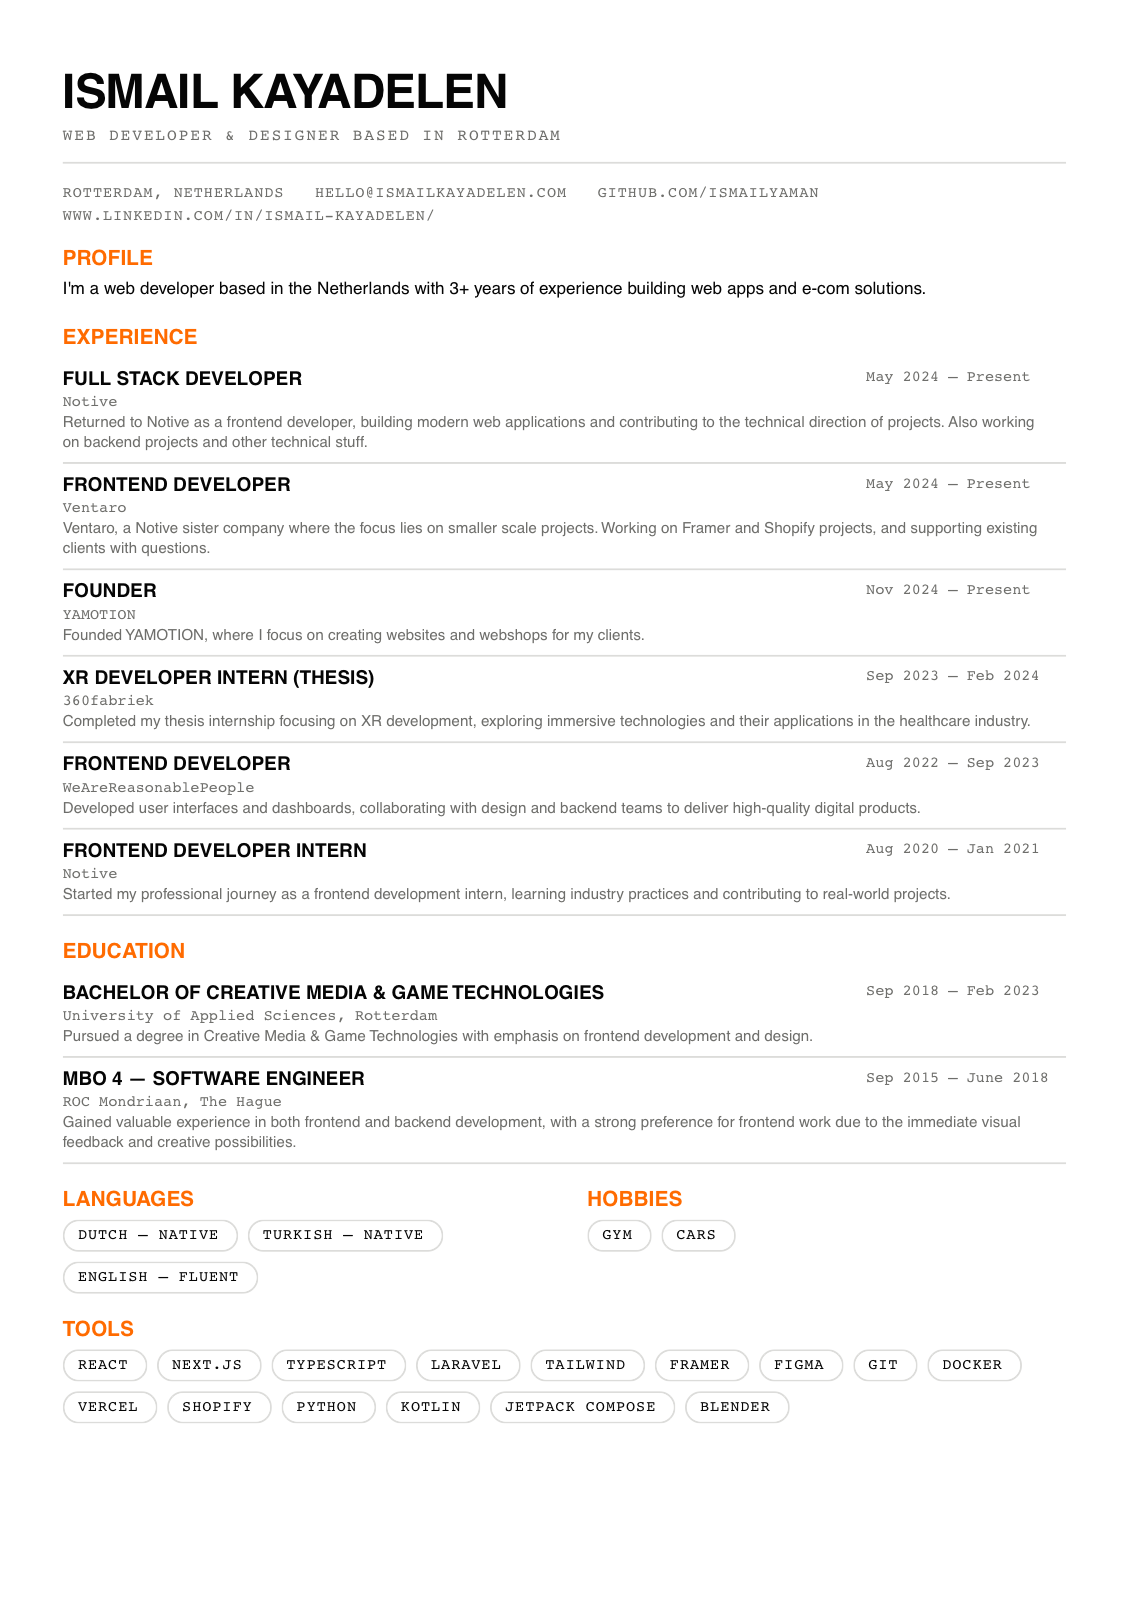
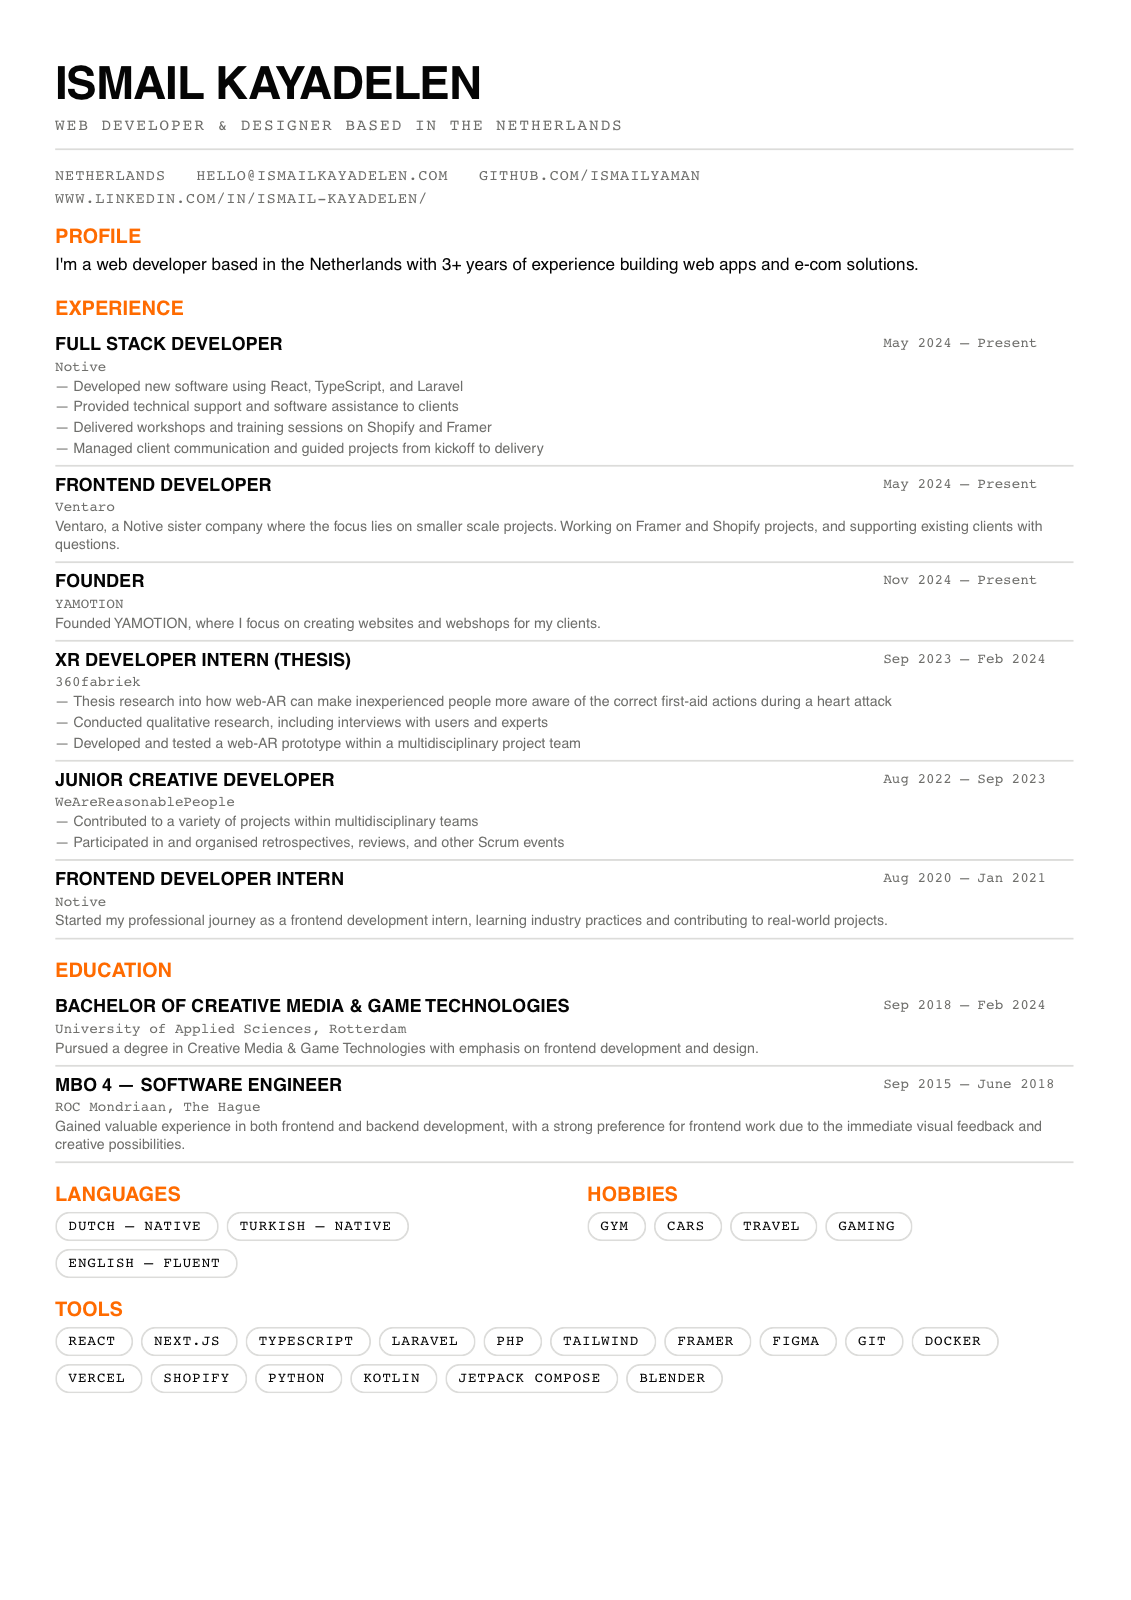
Expand CV with role bullet points and correct a few facts
Pulls detail from the old CV reference: per-role responsibility
bullets for Notive, 360fabriek, and WeAreReasonablePeople, PHP added
to tools, Travel/Gaming added to hobbies. Also corrects WAreReasonable
People's title to Junior Creative Developer and the Hogeschool
Rotterdam end date to Feb 2024, and generalizes SITE.location/tagline
to just "Netherlands" instead of a specific city.

diff --git a/lib/data.ts b/lib/data.ts
@@ -5,9 +5,9 @@ type LL = Record<Locale, string[]>;
 
 export const SITE = {
   name: "Ismail Kayadelen",
-  tagline: { en: "web developer & designer based in Rotterdam", nl: "webdeveloper & designer gevestigd in Rotterdam" } satisfies L,
+  tagline: { en: "web developer & designer based in the Netherlands", nl: "webdeveloper & designer gevestigd in Nederland" } satisfies L,
   email: "hello@ismailkayadelen.com",
-  location: { en: "Rotterdam, Netherlands", nl: "Rotterdam, Nederland" } satisfies L,
+  location: { en: "Netherlands", nl: "Nederland" } satisfies L,
   available: true,
   url: "https://ismailkayadelen.com",
 };
@@ -295,6 +295,7 @@ export type ExperienceEntry = {
   type: "Work" | "Education";
   year: L;
   description: L;
+  bullets?: LL;
 };
 
 export const experience: ExperienceEntry[] = [
@@ -306,6 +307,20 @@ export const experience: ExperienceEntry[] = [
     description: {
       en: "Returned to Notive as a frontend developer, building modern web applications and contributing to the technical direction of projects. Also working on backend projects and other technical stuff.",
       nl: "Teruggekeerd bij Notive als frontend developer, waar ik moderne webapplicaties bouw en meedenk over de technische richting van projecten. Daarnaast werk ik aan backend-projecten en andere technische zaken.",
+    },
+    bullets: {
+      en: [
+        "Developed new software using React, TypeScript, and Laravel",
+        "Provided technical support and software assistance to clients",
+        "Delivered workshops and training sessions on Shopify and Framer",
+        "Managed client communication and guided projects from kickoff to delivery",
+      ],
+      nl: [
+        "Nieuwe software ontwikkeld met React, TypeScript en Laravel",
+        "Technische ondersteuning en software support verleend aan klanten",
+        "Workshops en trainingen gegeven in Shopify en Framer",
+        "Klantcommunicatie onderhouden en projecten begeleid van start tot oplevering",
+      ],
     },
   },
   {
@@ -337,15 +352,31 @@ export const experience: ExperienceEntry[] = [
       en: "Completed my thesis internship focusing on XR development, exploring immersive technologies and their applications in the healthcare industry.",
       nl: "Afstudeerstage gericht op XR-development, waarbij ik immersieve technologieën en hun toepassingen binnen de zorgsector heb onderzocht.",
     },
+    bullets: {
+      en: [
+        "Thesis research into how web-AR can make inexperienced people more aware of the correct first-aid actions during a heart attack",
+        "Conducted qualitative research, including interviews with users and experts",
+        "Developed and tested a web-AR prototype within a multidisciplinary project team",
+      ],
+      nl: [
+        "Afstudeeronderzoek naar hoe web-AR onervaren mensen bewuster kan maken van de juiste handelingen bij eerste hulp aan een hartaanval",
+        "Kwalitatief onderzoek uitgevoerd, waaronder interviews met gebruikers en experts",
+        "Web-AR prototype ontwikkeld en getest binnen een multidisciplinair projectteam",
+      ],
+    },
   },
   {
-    title: { en: "Frontend Developer", nl: "Frontend Developer" },
+    title: { en: "Junior Creative Developer", nl: "Junior Creative Developer" },
     company: "WeAreReasonablePeople",
     type: "Work",
     year: { en: "Aug 2022 – Sep 2023", nl: "Aug 2022 – Sep 2023" },
     description: {
       en: "Developed user interfaces and dashboards, collaborating with design and backend teams to deliver high-quality digital products.",
       nl: "Interfaces en dashboards ontwikkeld, in samenwerking met design- en backendteams om hoogwaardige digitale producten op te leveren.",
+    },
+    bullets: {
+      en: ["Contributed to a variety of projects within multidisciplinary teams", "Participated in and organised retrospectives, reviews, and other Scrum events"],
+      nl: ["Meegewerkt aan diverse projecten binnen multidisciplinaire teams", "Retrospectives, reviews en andere Scrum events bijgewoond en (mede) georganiseerd"],
     },
   },
   {
@@ -362,7 +393,7 @@ export const experience: ExperienceEntry[] = [
     title: { en: "Bachelor of Creative Media & Game Technologies", nl: "Bachelor Creative Media & Game Technologies" },
     company: "University of Applied Sciences, Rotterdam",
     type: "Education",
-    year: { en: "Sep 2018 – Feb 2023", nl: "Sep 2018 – Feb 2023" },
+    year: { en: "Sep 2018 – Feb 2024", nl: "Sep 2018 – Feb 2024" },
     description: {
       en: "Pursued a degree in Creative Media & Game Technologies with emphasis on frontend development and design.",
       nl: "Een opleiding Creative Media & Game Technologies gevolgd met de nadruk op frontend development en design.",
@@ -386,7 +417,7 @@ export const languages = [
   { name: "English", level: "Fluent" },
 ];
 
-export const hobbies = ["Gym", "Cars"];
+export const hobbies = ["Gym", "Cars", "Travel", "Gaming"];
 
 export const workExperience = experience.filter((e) => e.type === "Work");
 export const education = experience.filter((e) => e.type === "Education");
@@ -421,6 +452,7 @@ export const tools = [
   "Next.js",
   "TypeScript",
   "Laravel",
+  "PHP",
   "Tailwind",
   "Framer",
   "Figma",

diff --git a/scripts/generate-cv.tsx b/scripts/generate-cv.tsx
@@ -30,20 +30,20 @@ const LANGUAGE_LEVEL: Record<Locale, Record<string, string>> = {
 };
 
 const HOBBY: Record<Locale, Record<string, string>> = {
-  en: { Gym: "Gym", Cars: "Cars" },
-  nl: { Gym: "Sporten", Cars: "Auto's" },
+  en: { Gym: "Gym", Cars: "Cars", Travel: "Travel", Gaming: "Gaming" },
+  nl: { Gym: "Sporten", Cars: "Auto's", Travel: "Reizen", Gaming: "Gamen" },
 };
 
 const styles = StyleSheet.create({
   page: {
-    padding: 34,
+    padding: 30,
     fontFamily: "Helvetica",
     fontSize: 10,
     color: INK,
   },
   name: {
     fontFamily: "Helvetica-Bold",
-    fontSize: 25,
+    fontSize: 24,
     textTransform: "uppercase",
     letterSpacing: -0.5,
   },
@@ -60,8 +60,8 @@ const styles = StyleSheet.create({
     flexWrap: "wrap",
     columnGap: 16,
     rowGap: 3,
-    marginTop: 10,
-    paddingTop: 10,
+    marginTop: 8,
+    paddingTop: 8,
     borderTopWidth: 1,
     borderTopColor: HAIRLINE,
   },
@@ -72,42 +72,44 @@ const styles = StyleSheet.create({
     letterSpacing: 0.5,
     color: SECONDARY,
   },
-  section: { marginTop: 12 },
+  section: { marginTop: 10 },
   sectionTitle: {
     fontFamily: "Helvetica-Bold",
-    fontSize: 11,
+    fontSize: 10.5,
     textTransform: "uppercase",
     color: ACCENT,
-    marginBottom: 5,
+    marginBottom: 4,
   },
-  paragraph: { fontSize: 9, lineHeight: 1.4, color: INK },
+  paragraph: { fontSize: 9, lineHeight: 1.35, color: INK },
   row: {
     flexDirection: "row",
     justifyContent: "space-between",
     alignItems: "flex-start",
-    paddingVertical: 5,
+    paddingVertical: 4,
     borderBottomWidth: 1,
     borderBottomColor: HAIRLINE,
   },
   rowLeft: { flexDirection: "column", flexGrow: 1, paddingRight: 12 },
-  rowTitle: { fontFamily: "Helvetica-Bold", fontSize: 10, textTransform: "uppercase" },
-  rowCompany: { fontFamily: "Courier", fontSize: 8, color: SECONDARY, marginTop: 2 },
-  rowDescription: { fontSize: 8, lineHeight: 1.3, color: SECONDARY, marginTop: 2 },
-  rowYear: { fontFamily: "Courier", fontSize: 8, color: SECONDARY, textAlign: "right", minWidth: 105 },
-  footerRow: { flexDirection: "row", marginTop: 12, gap: 24 },
+  rowTitle: { fontFamily: "Helvetica-Bold", fontSize: 9.5, textTransform: "uppercase" },
+  rowCompany: { fontFamily: "Courier", fontSize: 7.5, color: SECONDARY, marginTop: 2 },
+  rowDescription: { fontSize: 7.5, lineHeight: 1.25, color: SECONDARY, marginTop: 2 },
+  rowYear: { fontFamily: "Courier", fontSize: 7.5, color: SECONDARY, textAlign: "right", minWidth: 100 },
+  bulletList: { marginTop: 2, gap: 1.5 },
+  bulletText: { fontSize: 7.5, lineHeight: 1.25, color: SECONDARY },
+  footerRow: { flexDirection: "row", marginTop: 10, gap: 24 },
   footerCol: { flex: 1 },
-  tagWrap: { flexDirection: "row", flexWrap: "wrap", gap: 5 },
+  tagWrap: { flexDirection: "row", flexWrap: "wrap", gap: 4 },
   tag: {
     fontFamily: "Courier",
-    fontSize: 8,
+    fontSize: 7.5,
     textTransform: "uppercase",
     letterSpacing: 0.5,
     color: INK,
     borderWidth: 1,
     borderColor: HAIRLINE,
     borderRadius: 12,
-    paddingVertical: 3,
-    paddingHorizontal: 8,
+    paddingVertical: 2.5,
+    paddingHorizontal: 7,
   },
 });
 
@@ -119,7 +121,17 @@ function ExperienceRows({ items, locale }: { items: ExperienceEntry[]; locale: L
           <View style={styles.rowLeft}>
             <Text style={styles.rowTitle}>{item.title[locale]}</Text>
             <Text style={styles.rowCompany}>{item.company}</Text>
-            <Text style={styles.rowDescription}>{item.description[locale]}</Text>
+            {item.bullets ? (
+              <View style={styles.bulletList}>
+                {item.bullets[locale].map((b) => (
+                  <Text key={b} style={styles.bulletText}>
+                    — {b}
+                  </Text>
+                ))}
+              </View>
+            ) : (
+              <Text style={styles.rowDescription}>{item.description[locale]}</Text>
+            )}
           </View>
           <Text style={styles.rowYear}>{item.year[locale]}</Text>
         </View>
